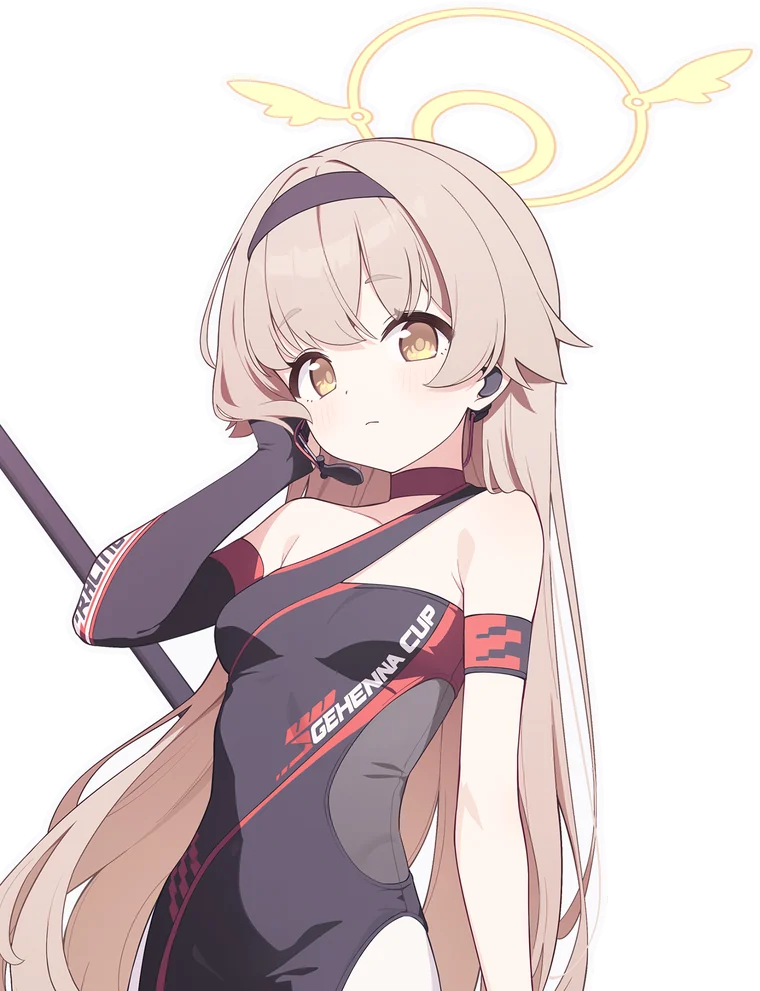
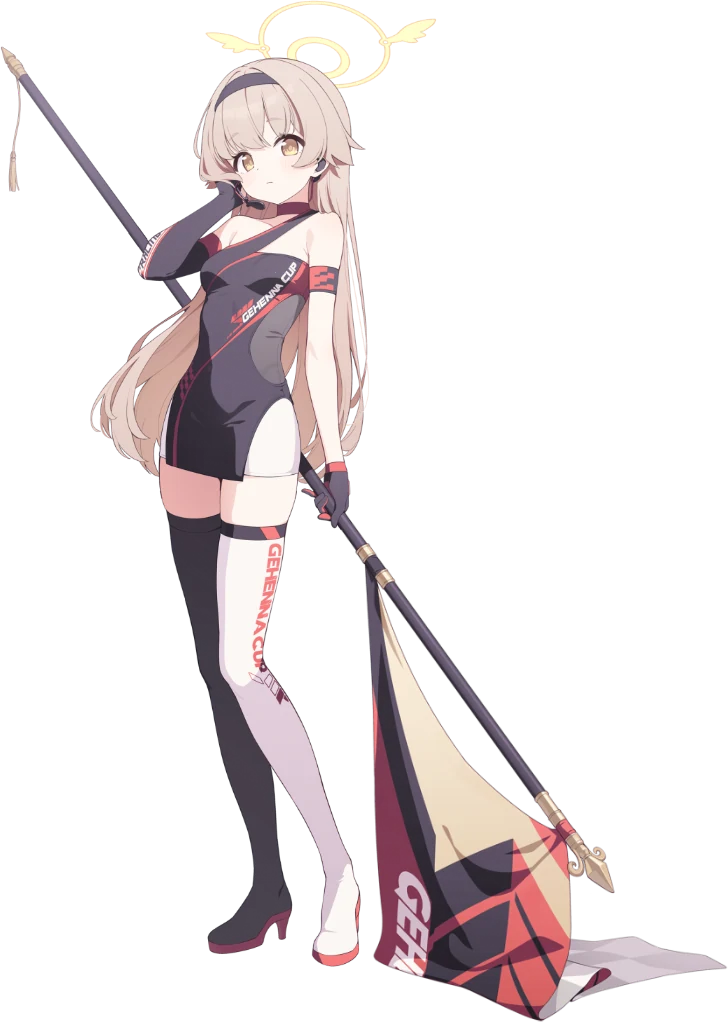
Show the Racing pair as the client's standing sprites
The two announced cards carried waist-up crops from the tank-racing lobby
texture, which made them the only portraits on the site that were not full
body: every SchaleDB img/portrait/<id>.webp is the standing figure. Render
them from the students' own Spine sets instead (ch0379_spr / ch0380_spr,
Spine 4.2.33 at setup pose, trimmed to alpha), so the pair reads like the
other 278.

The calendar's detail panel had no character art at all - just the Japanese
banner strip and a 42px face - so a row that carries a portrait now shows it
beside the name. That is data-driven, not a provisional check: any future
announced student gets the same treatment, and the img/avatar face stays the
fallback when the portrait 404s.

diff --git a/scripts/announced-banners.ts b/scripts/announced-banners.ts
@@ -34,8 +34,9 @@
  * Character ids are negative on purpose: SchaleDB ids are positive, so a
  * placeholder can never collide with — or be mistaken for — a real student.
  * Their artwork lives under `public/img/announced/`: a 120px head crop from the
- * student's `Student_Portrait_*` bust, plus the full racing illustration from
- * the `TankRacing_LobbyChar_*` texture, both in the JP client (see
+ * student's `Student_Portrait_*` bust, plus the standing full-body sprite
+ * composed from the student's own Spine character set
+ * (`assets-_mx-spinecharacters-*`), both in the JP client (see
  * `AVATAR_SOURCE`). Delete those files once SchaleDB publishes the student;
  * nothing else references them.
  */
@@ -47,7 +48,7 @@ const DEDUPE_TOLERANCE_MS = 36 * 60 * 60 * 1000;
 
 /** Where the placeholder artwork came from, for attribution in the UI docs. */
 export const AVATAR_SOURCE =
-  "Cropped from the student's own racing illustration in the Blue Archive Japan " +
+  "Cropped and composed from the student's own artwork in the Blue Archive Japan " +
   "client (© NEXON Games & Yostar); replaced by SchaleDB artwork once published.";
 
 export interface AnnouncedCharacter {
@@ -60,9 +61,9 @@ export interface AnnouncedCharacter {
   /** Relative path under `public/`, like the exported avatars. */
   avatar: string;
   /**
-   * Full illustration, also relative. The client bust as cropped from the same
-   * `TankRacing_LobbyChar_*` texture as the headshot; there is no numeric id to
-   * build an `img/portrait/<id>.webp` path from.
+   * Full illustration, also relative. The student's Spine character sprite
+   * (`assets-_mx-spinecharacters-<set>_spr`), rendered at its setup pose; there
+   * is no numeric id to build an `img/portrait/<id>.webp` path from.
    */
   portrait: string;
   availability: "permanent" | "limited" | "event";
@@ -97,10 +98,10 @@ export interface AnnouncedBanner {
  * `CH0379` (ヒフミ, Hifumi) and `CH0380` (アズサ, Azusa) in the Addressables
  * catalog, so the headshots are cropped from
  * `uis-01_common-01_character-*_textures-2026-09-30_*.bundle` →
- * `Student_Portrait_CH0379` / `Student_Portrait_CH0380`, and the full racing
- * illustrations from
- * `uis-01_common-34_minigame-tankracing-_mxload-textures-2026-09-30_*.bundle`
- * → `TankRacing_LobbyChar_1` (Hifumi) / `TankRacing_LobbyChar_2` (Azusa).
+ * `Student_Portrait_CH0379` / `Student_Portrait_CH0380`, and the standing
+ * illustrations from the matching Spine sets,
+ * `assets-_mx-spinecharacters-ch0379_spr-*` / `ch0380_spr-*`, composed with the
+ * Spine 4.2 runtime.
  */
 export const ANNOUNCED_BANNERS: AnnouncedBanner[] = [
   {

diff --git a/src/client/App.tsx b/src/client/App.tsx
@@ -7,6 +7,7 @@ import {
   asset,
   emblemUrl,
   isAnnouncedOnly,
+  portrait,
   schoolColor,
   type Banner,
   type ForecastResponse,
@@ -686,10 +687,28 @@ function DetailBody({ banner, tz }: { banner: Banner; tz: string }) {
     <>
       {banner.imageUrl && <img className="detail-art" src={asset(banner.imageUrl)} alt="" onError={(e) => { (e.currentTarget as HTMLImageElement).style.display = "none"; }} />}
 
-      {/* Identity, tags and school on one line — the art already shows the
-          character, so a second avatar block is wasted height. */}
+      {/* Identity, tags and school on one line — a real banner graphic already
+          shows the character, so a second avatar block is wasted height. A
+          placeholder row has no SchaleDB portrait and only a Japanese banner
+          strip, so it shows the composed sprite instead of the 42px face. */}
       <div className="detail-id">
-        {who && <img src={asset(who.avatar)} alt="" className="detail-face" />}
+        {who && (
+          <img
+            src={asset(who.portrait ? portrait(who) : who.avatar)}
+            alt=""
+            className={who.portrait ? "detail-face detail-figure" : "detail-face"}
+            onError={(event) => {
+              const image = event.currentTarget;
+              if (image.dataset.fallback) {
+                image.style.display = "none";
+                return;
+              }
+              image.dataset.fallback = "true";
+              image.classList.remove("detail-figure");
+              image.src = asset(who.avatar);
+            }}
+          />
+        )}
         <div className="detail-idtext">
           <div className="detail-name">{whoName}</div>
           <div className="detail-tags">

diff --git a/src/client/styles.css b/src/client/styles.css
@@ -168,6 +168,7 @@ select, .search { height: 44px; min-width: 0; padding: 8px 12px; border: 1px sol
 .detail-art { width: 100%; height: 110px; object-fit: cover; object-position: center 25%; margin-bottom: 12px; display: block; }
 .detail-id { display: flex; align-items: center; gap: 10px; margin-bottom: 16px; }
 .detail-face { width: 42px; height: 42px; object-fit: cover; border-radius: 50%; flex: none; }
+.detail-figure { width: 104px; height: 156px; border-radius: 4px; object-fit: contain; object-position: center bottom; background: var(--surface-alt); }
 .detail-idtext { min-width: 0; }
 .detail-name { font-size: 18px; font-weight: 800; overflow-wrap: anywhere; }
 .detail-tags { display: flex; flex-wrap: wrap; align-items: center; gap: 4px; margin-top: 6px; }

diff --git a/src/client/api.ts b/src/client/api.ts
@@ -31,8 +31,9 @@ export interface Character {
   avatar: string;
   /**
    * Local bundled full illustration, when it cannot be derived from the id:
-   * an announced placeholder carries the client bust crop under `img/announced/`
-   * instead of `img/portrait/<id>.webp`. Resolve through `portrait()`.
+   * an announced placeholder carries the standing sprite composed from the
+   * client's own Spine set under `img/announced/` instead of
+   * `img/portrait/<id>.webp`. Resolve through `portrait()`.
    */
   portrait?: string;
   availability?: CharacterAvailability;

diff --git a/AGENTS.md b/AGENTS.md
@@ -76,10 +76,17 @@ table of those rows and `scripts/export.ts` merges them into `banners.json` with
   filed under the costume's `CH####` id rather than a name — the 10/28 Racing
   forms are `CH0379` (ヒフミ) and `CH0380` (アズサ), whose portraits sit in
   `uis-01_common-01_character-*_textures-*.bundle` next to the named students'.
-  The full illustrations come from the event bundle instead, one texture per
-  outfit (`uis-01_common-34_minigame-tankracing-*`: `TankRacing_LobbyChar_1` is
-  Hifumi, `TankRacing_LobbyChar_2` is Azusa). Delete those files once SchaleDB
-  publishes the real artwork; nothing else references them.
+  The full illustrations come from the same outfit's Spine character set
+  instead (`assets-_mx-spinecharacters-ch0379_spr-*` / `ch0380_spr-*`). An atlas
+  is 2048² of loose body parts, so it is not a texture you can just unpack: the
+  skeleton is Spine 4.2.33 binary, and the standing figure has to be composed by
+  running it through the Spine 4.2 runtime at its setup pose and trimming to the
+  alpha bounds. That is what SchaleDB's own `img/portrait/<id>.webp` files are
+  made of, so the result lines up with the other 278 instead of being a waist-up
+  crop. Do not reach for `uis-01_common-34_minigame-tankracing-*`
+  (`TankRacing_LobbyChar_*`) — those are lobby CGs, character plus background.
+  Delete these files once SchaleDB publishes the real artwork; nothing else
+  references them.
 - **Every image path goes through a helper**, because an announced student has no
   numeric id to build one from. `headshot(student)` returns the 120px crop for
   negative ids and `img/avatar/<id>.webp` otherwise; `portrait(student)` returns
